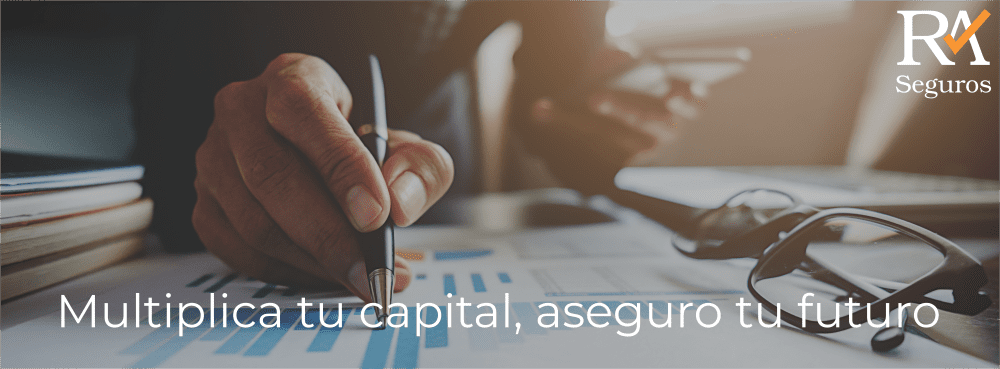
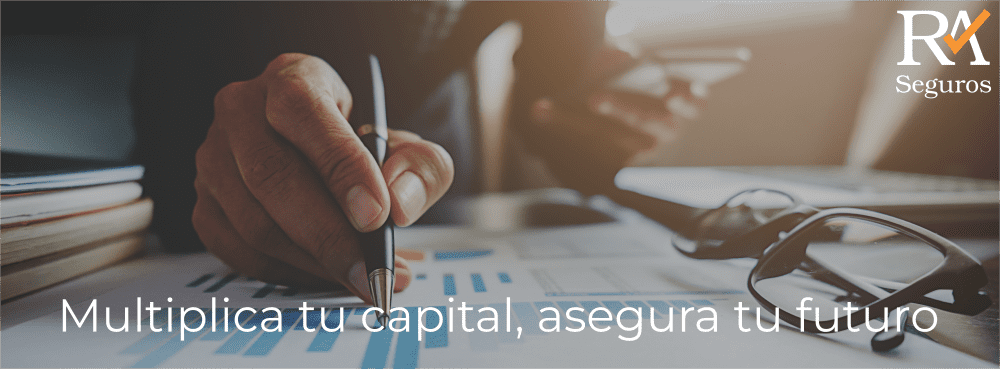
fix: typos and redo of landing

diff --git a/material/overrides/home.html b/material/overrides/home.html
@@ -9,7 +9,7 @@
 
     <div class="landing" >
         <div class="logo" >
-            <img src="assets/images/home.svg" alt="logo">
+            <img src="assets/images/home2.svg" alt="logo">
         </div>
     </div>
   
